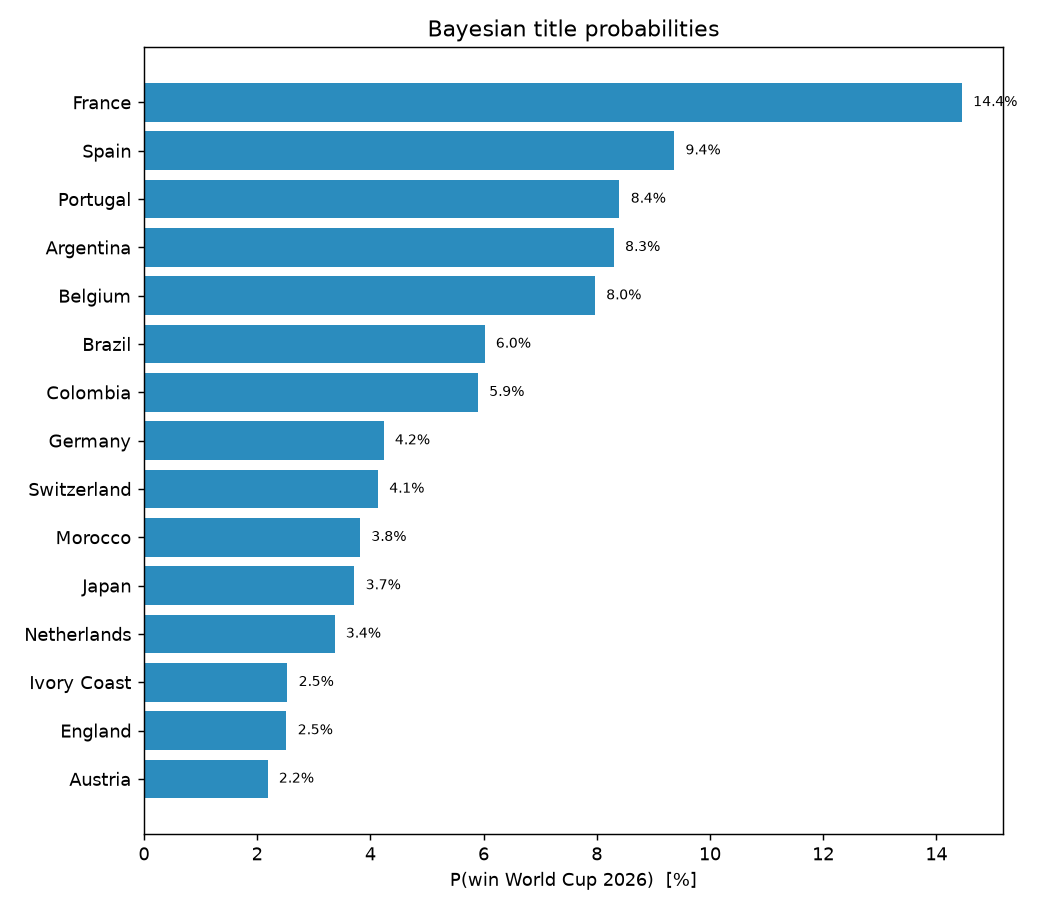
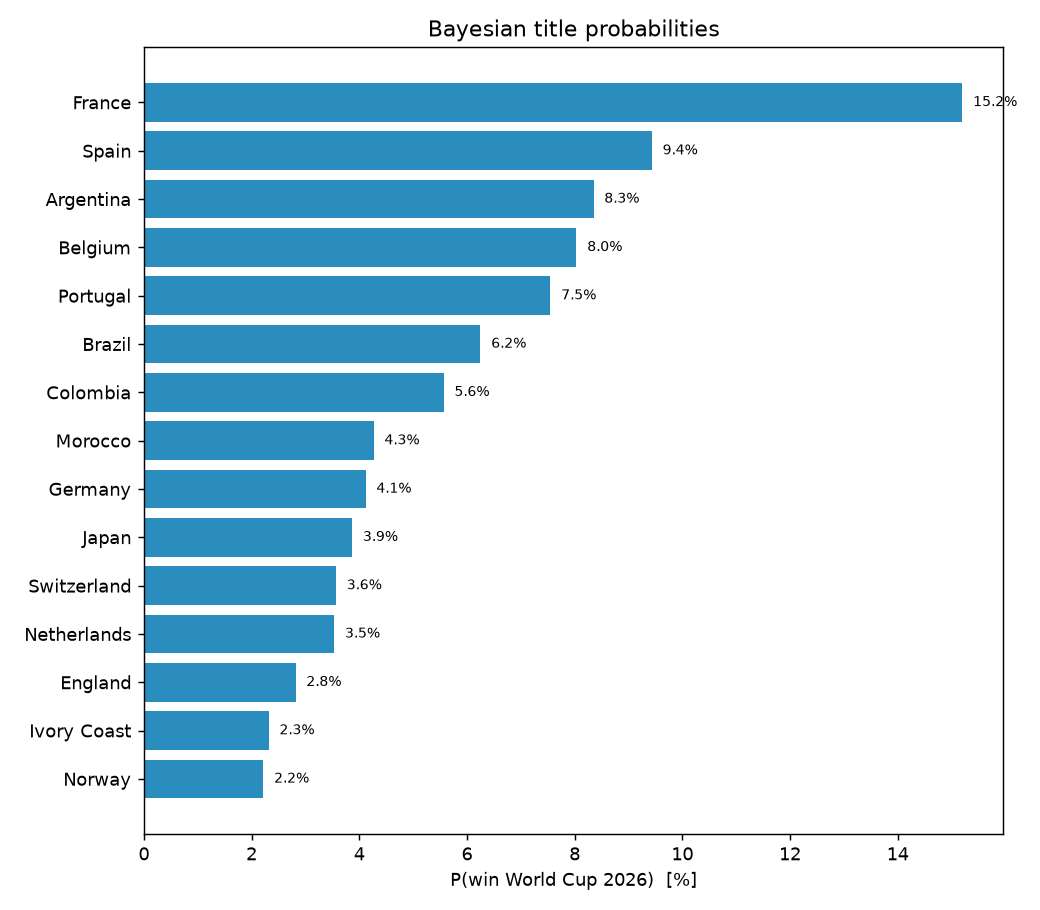
tracker: daily refresh 2026-07-13

diff --git a/docs/CHAMPION_TRACKER.md b/docs/CHAMPION_TRACKER.md
@@ -1,6 +1,6 @@
 # 🏆 World Cup 2026 — Champion Tracker
 
-_A living, state-aware forecast. Conditioned on the **98 matches played so far**: completed group games are held fixed; the rest of the tournament is simulated from a Bayesian goals model (squad-skill prior + current form + X/ESPN sentiment). Updated 2026-07-12._
+_A living, state-aware forecast. Conditioned on the **98 matches played so far**: completed group games are held fixed; the rest of the tournament is simulated from a Bayesian goals model (squad-skill prior + current form + X/ESPN sentiment). Updated 2026-07-13._
 
 ## How to read this
 
@@ -15,18 +15,18 @@ Both come from one model: goals are the primitive; the winner is a simulation ov
 
 | Team | Quarter | Semi | Final | **Champion** |
 |---|---|---|---|---|
-| France | 51% | 30% | 20% | **14%** |
-| Spain | 46% | 24% | 13% | **9%** |
-| Portugal | 43% | 23% | 13% | **8%** |
-| Argentina | 46% | 24% | 13% | **8%** |
-| Belgium | 46% | 23% | 12% | **8%** |
-| Brazil | 43% | 23% | 11% | **6%** |
-| Colombia | 40% | 21% | 11% | **6%** |
-| Germany | 37% | 20% | 10% | **4%** |
-| Switzerland | 35% | 19% | 10% | **4%** |
-| Morocco | 34% | 17% | 8% | **4%** |
-| Japan | 35% | 18% | 9% | **4%** |
-| Netherlands | 35% | 18% | 9% | **3%** |
+| France | 51% | 30% | 20% | **15%** |
+| Spain | 46% | 24% | 14% | **9%** |
+| Argentina | 45% | 24% | 13% | **8%** |
+| Belgium | 47% | 24% | 12% | **8%** |
+| Portugal | 43% | 22% | 12% | **8%** |
+| Brazil | 42% | 22% | 11% | **6%** |
+| Colombia | 40% | 20% | 10% | **6%** |
+| Morocco | 35% | 19% | 9% | **4%** |
+| Germany | 37% | 20% | 9% | **4%** |
+| Japan | 34% | 18% | 9% | **4%** |
+| Switzerland | 36% | 18% | 8% | **4%** |
+| Netherlands | 33% | 17% | 9% | **4%** |
 
 _Mexico's Round-of-32 opponent odds (per candidate): [R32_ODDS.md](R32_ODDS.md) — `make r32-odds`._
 
@@ -43,7 +43,7 @@ _How each contender's championship probability moved as matches were played. The
 | Date | Fixture | Pred goals (xG) | Likely | P(H/D/A) | Home form |
 |---|---|---|---|---|---|
 | 2026-07-11 | Norway v England | 1.4-1.6 | 1-1 | 34%/24%/42% | rising |
-| 2026-07-11 | Argentina v Switzerland | 1.9-1.4 | 1-1 | 49%/22%/28% | red-hot |
+| 2026-07-11 | Argentina v Switzerland | 1.9-1.4 | 1-1 | 49%/22%/29% | red-hot |
 
 ## Current group standings (played)
 

diff --git a/docs/GOAL_DIFF_FORECAST.md b/docs/GOAL_DIFF_FORECAST.md
@@ -1,6 +1,6 @@
 # Goal-difference forecast (Gaussian model)
 
-_A simple Bayesian model of the **signed goal difference** (home - away): `goal_diff ~ Normal(mu, sigma)`, `mu = home_adv + strength[home] - strength[away]`, with a player-informed prior on strength. Refit daily on the latest results. Fit on **656 matches** through 2026-07-12._
+_A simple Bayesian model of the **signed goal difference** (home - away): `goal_diff ~ Normal(mu, sigma)`, `mu = home_adv + strength[home] - strength[away]`, with a player-informed prior on strength. Refit daily on the latest results. Fit on **656 matches** through 2026-07-13._
 
 _Player-data weight `beta_prior` = **0.69** (how much the model leans on squad ratings vs. results).
 
@@ -32,4 +32,4 @@ _No upcoming fixtures in the feed right now._
 - **Strength prior:** `strength = beta_prior * prior_strength + residual`; `prior_strength` is the squad rating built from player attributes, and `beta_prior` is learned. See [notebooks/goal_difference_gaussian.ipynb](../notebooks/goal_difference_gaussian.ipynb) for the full teaching walkthrough.
 - **Simpler cousin** of the production Poisson scoreline model ([CHAMPION_TRACKER.md](CHAMPION_TRACKER.md)); it forecasts the *margin* rather than full scorelines.
 
-_Updated 2026-07-12 by the daily tracker._
+_Updated 2026-07-13 by the daily tracker._

diff --git a/docs/match_predictions.md b/docs/match_predictions.md
@@ -1,6 +1,6 @@
 # WC 2026 — Match Predictions vs Reality, and Forecasts
 
-_Model trained on pre-tournament data only (results to 2026-06-10 + FIFA squad prior). Backtest compares those out-of-sample forecasts to the actual scorelines; forecasts cover the next slate. Compiled 2026-07-12._
+_Model trained on pre-tournament data only (results to 2026-06-10 + FIFA squad prior). Backtest compares those out-of-sample forecasts to the actual scorelines; forecasts cover the next slate. Compiled 2026-07-13._
 
 ## Accuracy so far (out-of-sample)
 

diff --git a/docs/FORECAST_LOG.md b/docs/FORECAST_LOG.md
@@ -1,6 +1,6 @@
 # 📒 Forecast Log — Predictions vs Ground Truth
 
-_A growing, append-on-result ledger: every goal forecast and how it turned out. Updated by the daily GitHub Action. Compiled 2026-07-12._
+_A growing, append-on-result ledger: every goal forecast and how it turned out. Updated by the daily GitHub Action. Compiled 2026-07-13._
 
 ## Running accuracy (resolved matches)
 

diff --git a/docs/WINNERS.md b/docs/WINNERS.md
@@ -1,6 +1,6 @@
 # 🔮 WC 2026 — Winners: next-day picks + champion scorecard
 
-_A simple **Elo** model, conditioned on the **98 matches played so far** and the real 2026 bracket. Updated 2026-07-12._
+_A simple **Elo** model, conditioned on the **98 matches played so far** and the real 2026 bracket. Updated 2026-07-13._
 
 ## Next match day — who wins (Elo goals model)
 

diff --git a/docs/analytics.md b/docs/analytics.md
@@ -1,6 +1,6 @@
 # WC 2026 — Tracking Analytics, Sentiment & Tactics
 
-_Run after each matchday to track model calibration and read the next slate. Charts in `artifacts/`. Compiled 2026-07-12._
+_Run after each matchday to track model calibration and read the next slate. Charts in `artifacts/`. Compiled 2026-07-13._
 
 ## Tracking charts
 
